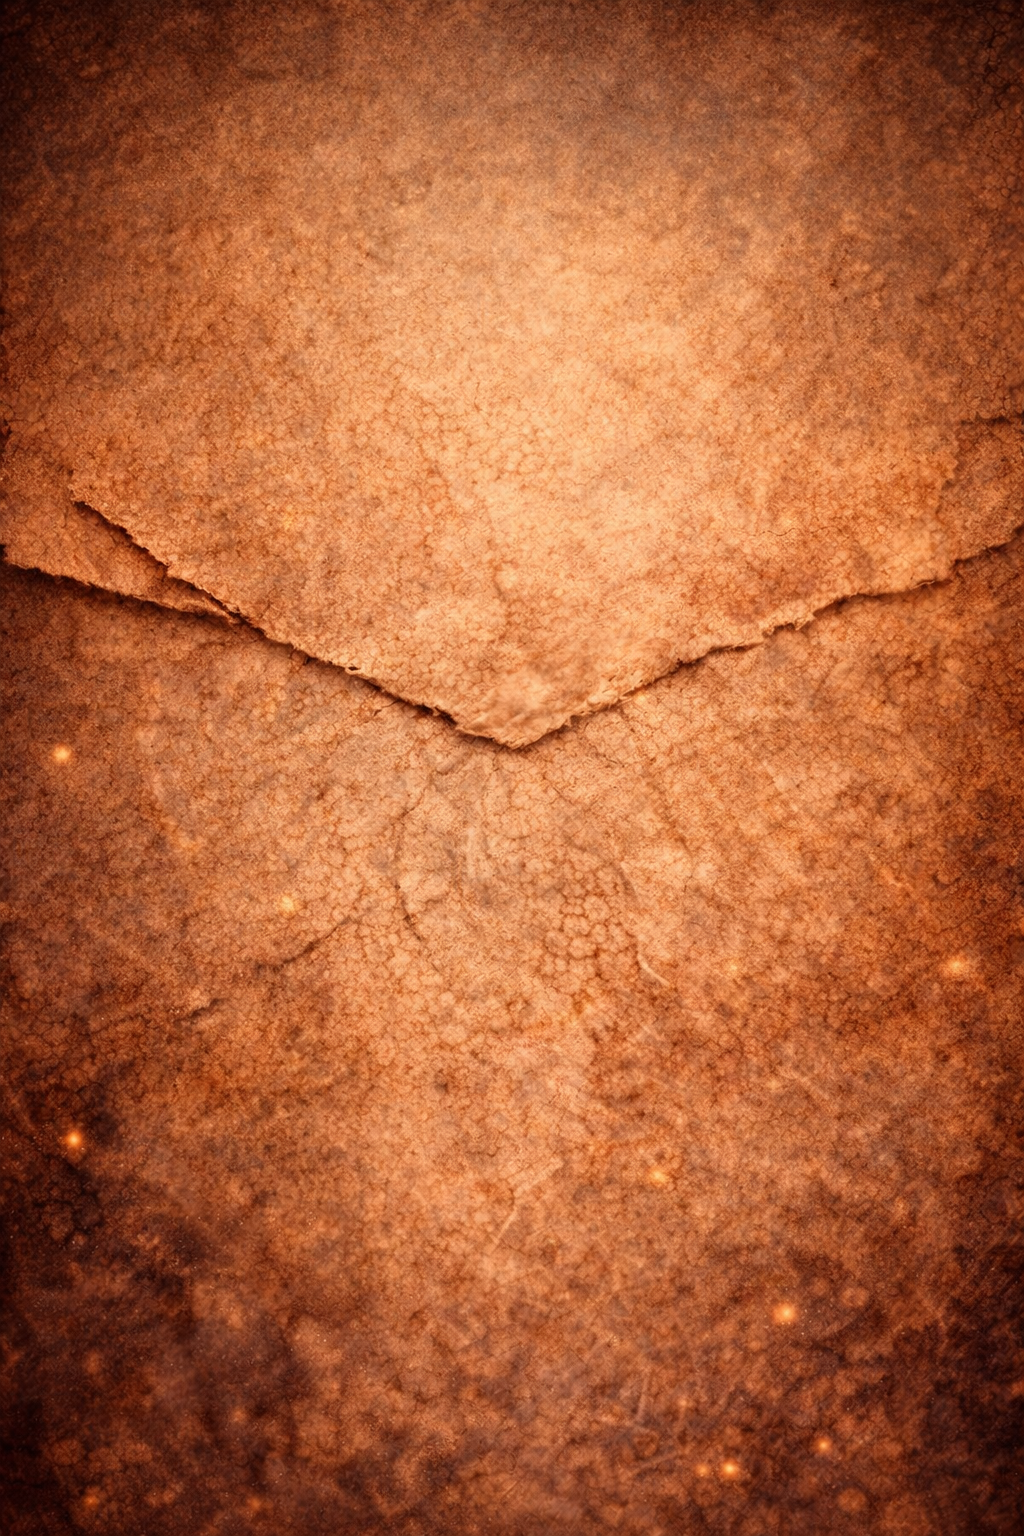
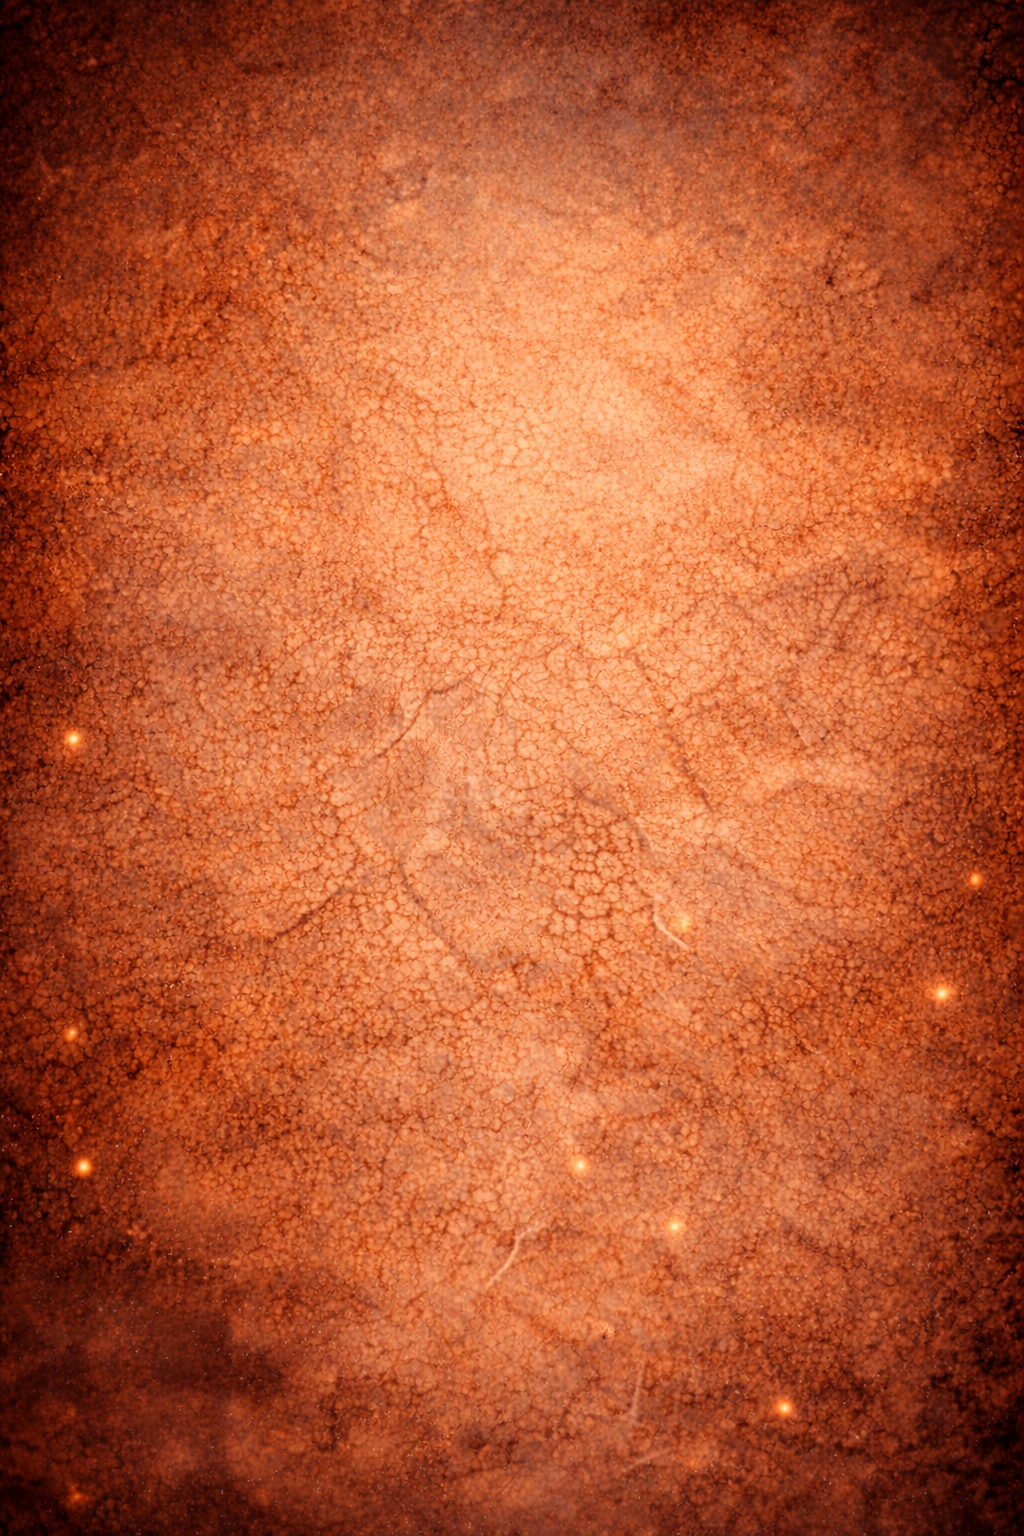
update

diff --git a/app/page.tsx b/app/page.tsx
@@ -170,7 +170,7 @@ export default function Home() {
             {/* A felnyíló fül */}
             <div
               ref={flapRef}
-              className="absolute left-1/2 top-[-112px] -translate-x-1/2 w-[330px] h-[1160px] z-20 origin-top"
+              className="absolute left-1/2 top-[-1800px] -translate-x-1/2 w-[330px] h-[560px] z-20 origin-top"
               style={{ 
                 transformStyle: "preserve-3d", 
                 backfaceVisibility: "hidden" 
